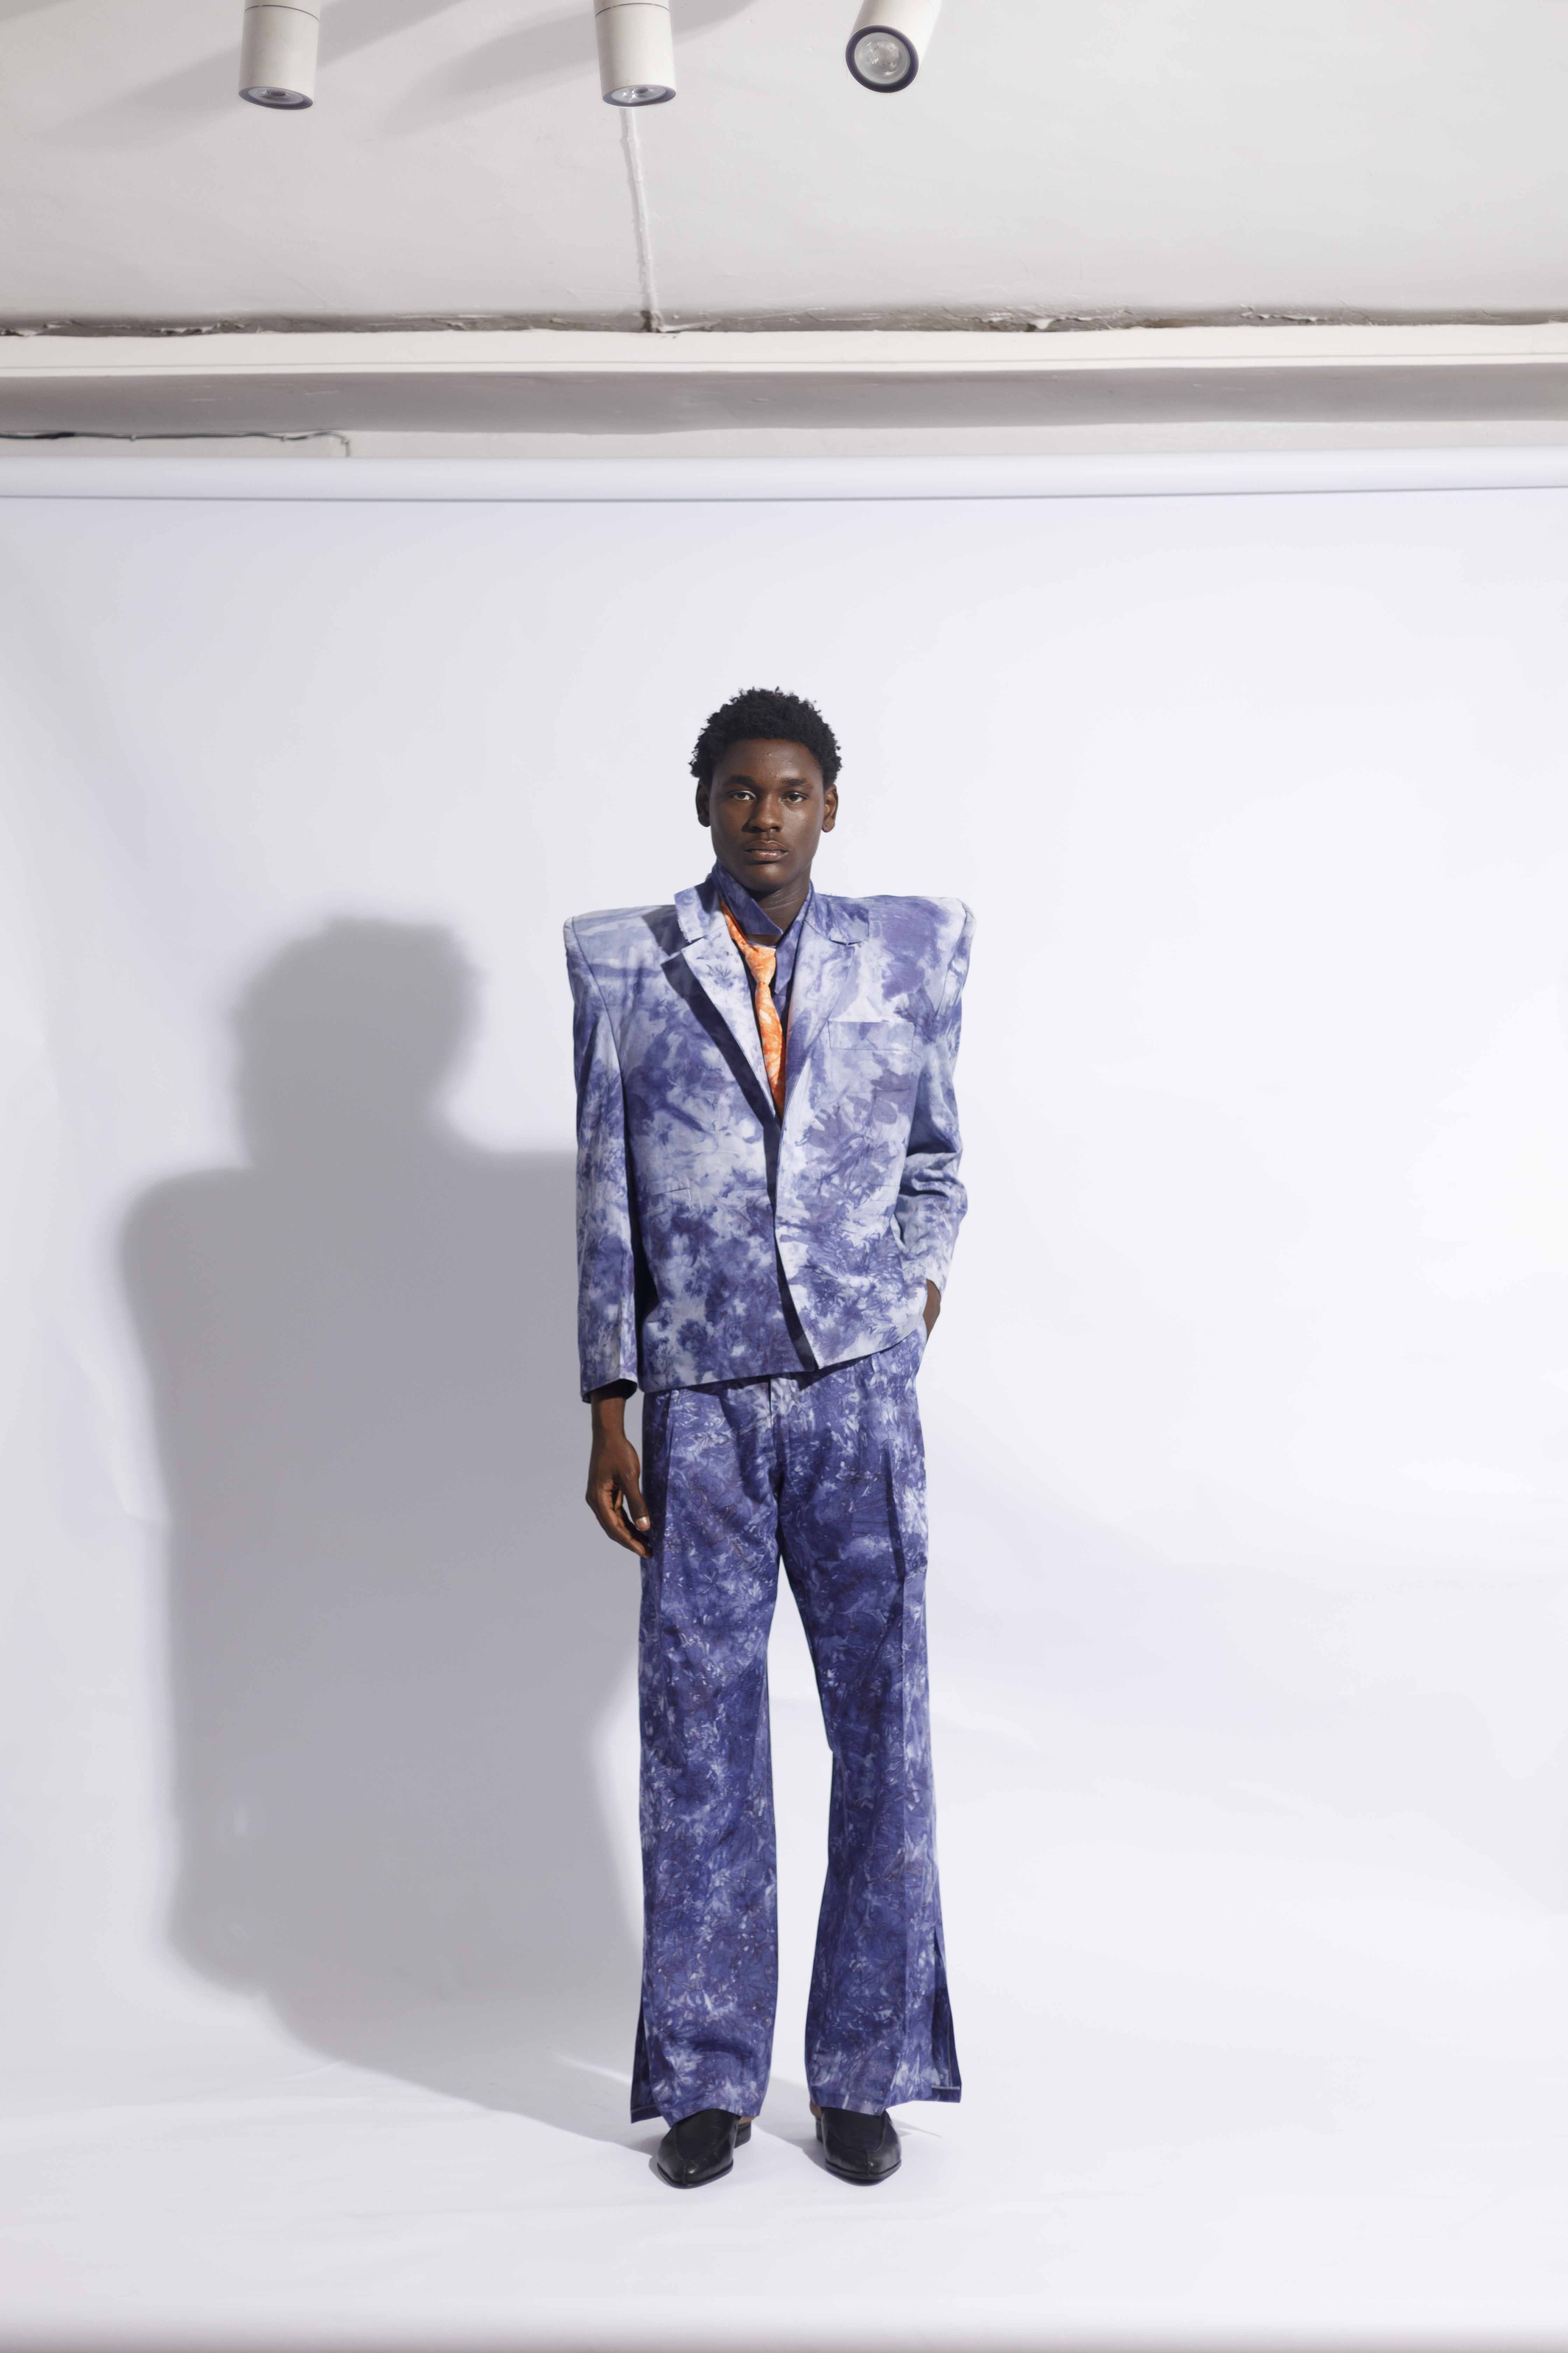
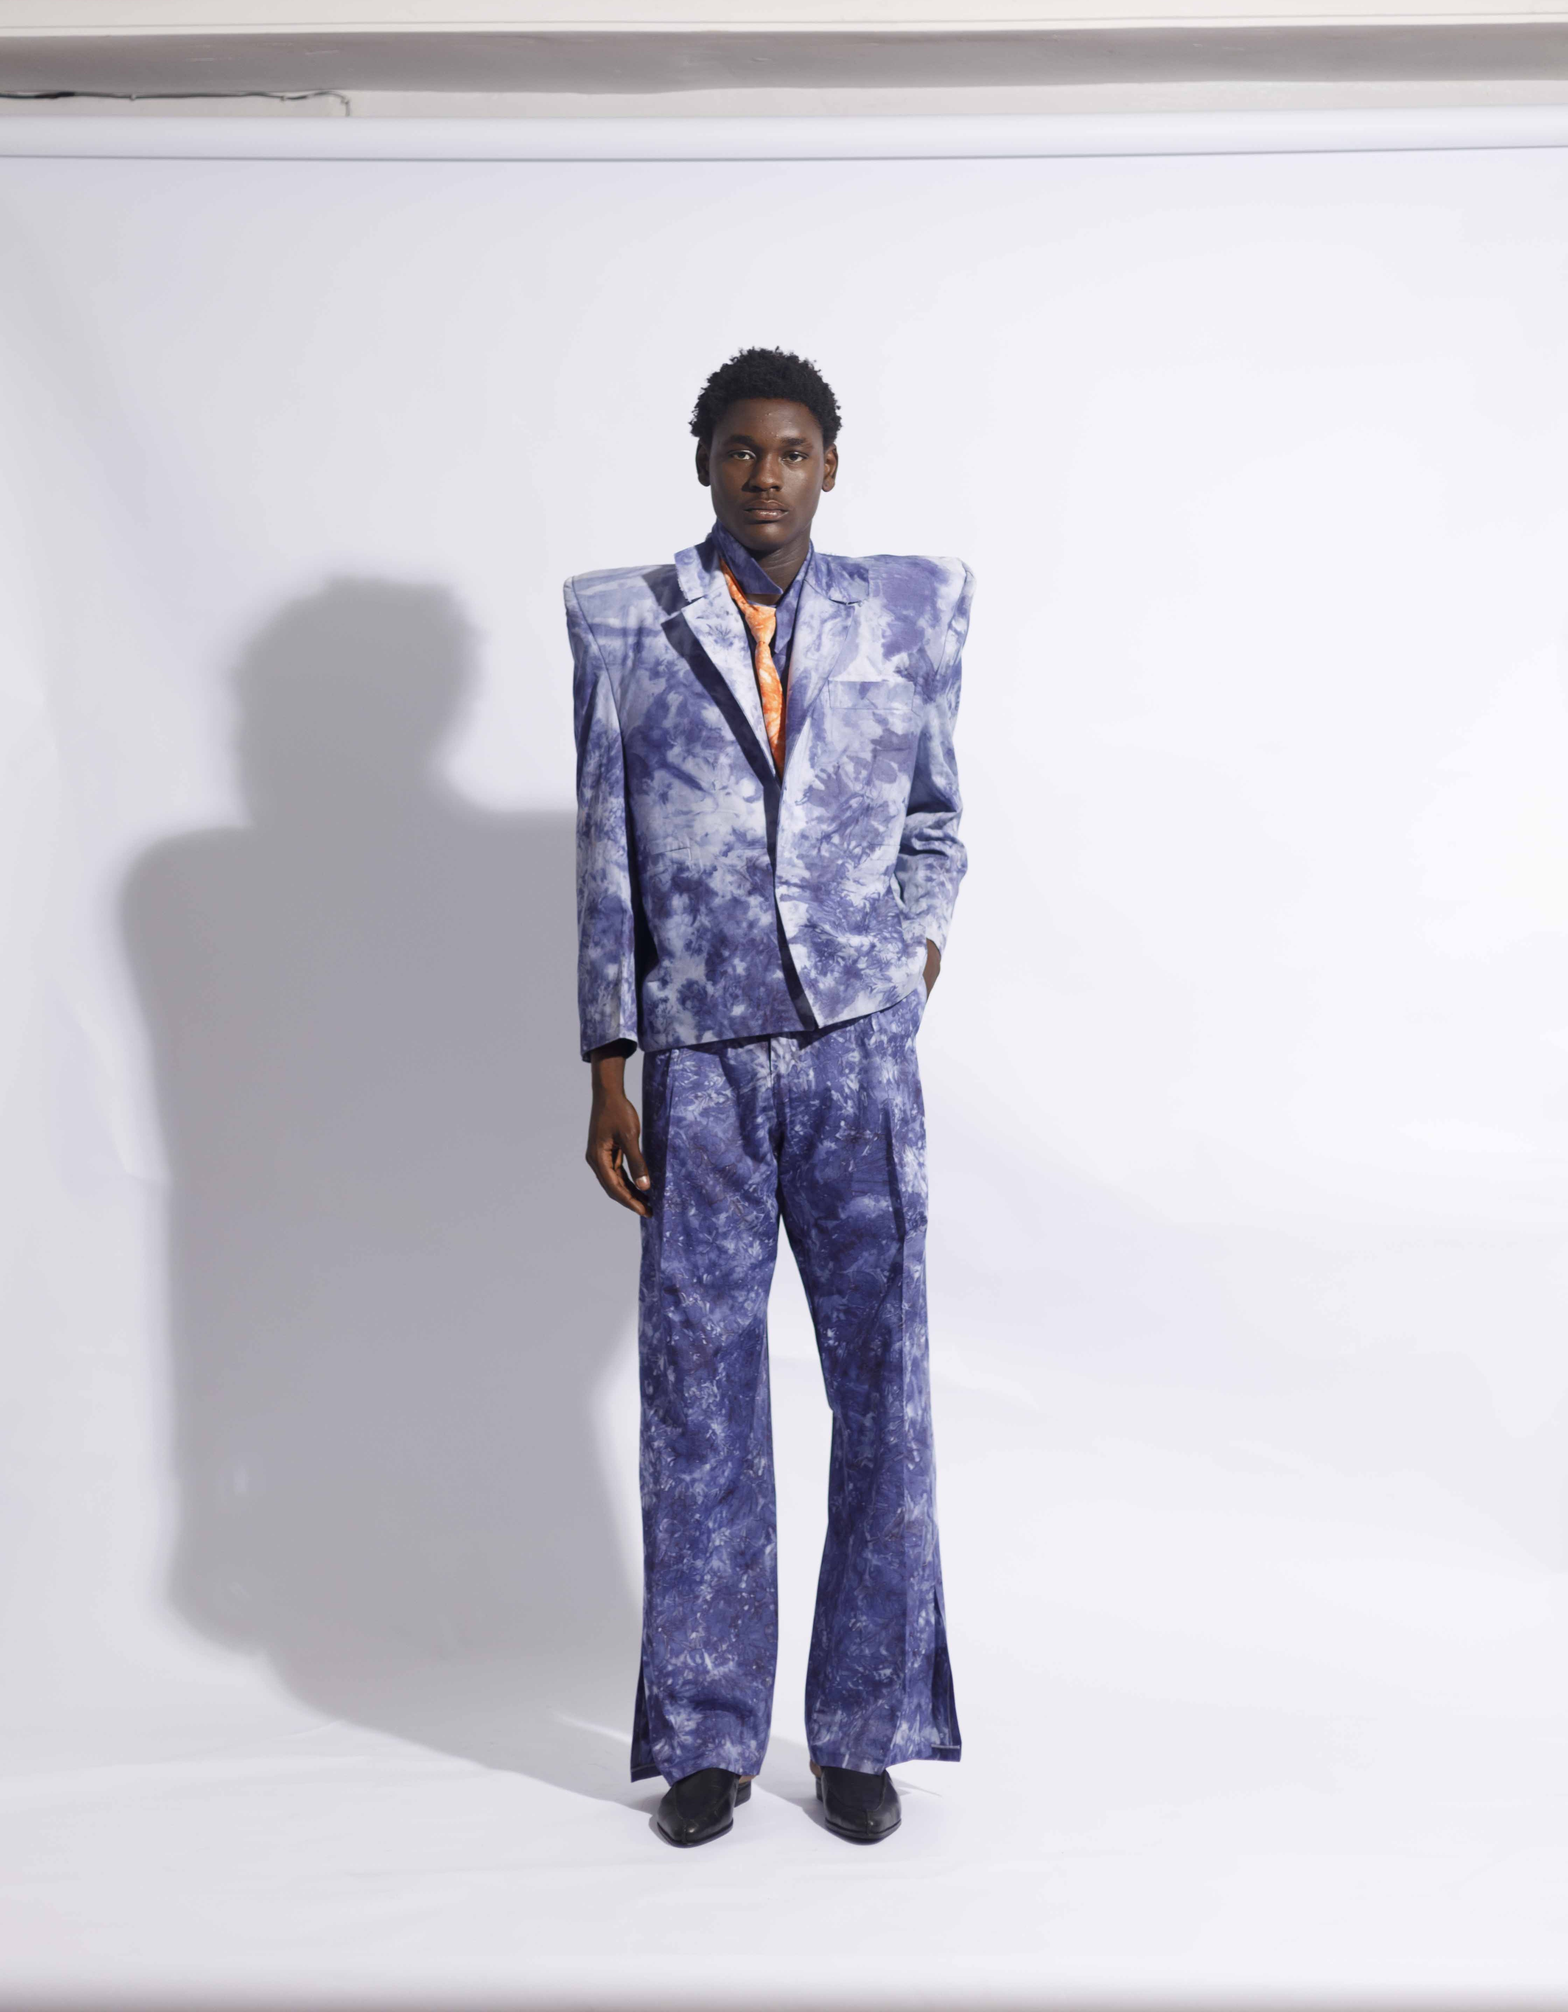
Update 2025 collection name and order

Changed region(s): [[0.0, 0.0, 1.0, 0.9342]]

diff --git a/web/src/data/fashion-data.js b/web/src/data/fashion-data.js
@@ -246,9 +246,27 @@ export const products = [
 
 export const collections = [
   {
+    id: "freedom",
+    year: "2026",
+    title: "SS",
+    description: "Line Sheet -  2026",
+    coverImage: "/assets/freedom/freedom-cover.jpg",
+    gallery: [
+      "/assets/freedom/freedom-gallery-01.jpg",
+      "/assets/freedom/freedom-gallery-02.jpg",
+      "/assets/freedom/freedom-gallery-03.jpg",
+      "/assets/freedom/freedom-gallery-04.jpg",
+      "/assets/freedom/freedom-gallery-05.jpg",
+      "/assets/freedom/freedom-gallery-06.jpg",
+      "/assets/freedom/freedom-gallery-07.jpg",
+      "/assets/freedom/freedom-detail-01.jpg",
+      "/assets/freedom/freedom-detail-02.jpg",
+    ],
+  },
+  {
     id: "fluid-beauty",
     year: "2025",
-    title: "Fluid Beauty",
+    title: "Morden Heritage",
     description:
       "The collection explores beauty not as appearance, but as a way of being. Through The blend of sculptural tailoring and draping, fluid silhouettes, and natural textiles, the collection examines the relationship between softness and strength, movement and structure, tradition and modernity.",
     coverImage: `${kj25Base}/SMLD2041.jpeg`,
@@ -280,24 +298,6 @@ export const collections = [
       `${kj25Base}/SMLD2249.jpeg`,
       `${kj25Base}/SMLD2310.jpeg`,
       `${kj25Base}/SMLD2314.jpeg`,
-    ],
-  },
-  {
-    id: "freedom",
-    year: "2026",
-    title: "SS",
-    description: "Line Sheet -  2026",
-    coverImage: "/assets/freedom/freedom-cover.jpg",
-    gallery: [
-      "/assets/freedom/freedom-gallery-01.jpg",
-      "/assets/freedom/freedom-gallery-02.jpg",
-      "/assets/freedom/freedom-gallery-03.jpg",
-      "/assets/freedom/freedom-gallery-04.jpg",
-      "/assets/freedom/freedom-gallery-05.jpg",
-      "/assets/freedom/freedom-gallery-06.jpg",
-      "/assets/freedom/freedom-gallery-07.jpg",
-      "/assets/freedom/freedom-detail-01.jpg",
-      "/assets/freedom/freedom-detail-02.jpg",
     ],
   },
 ];
